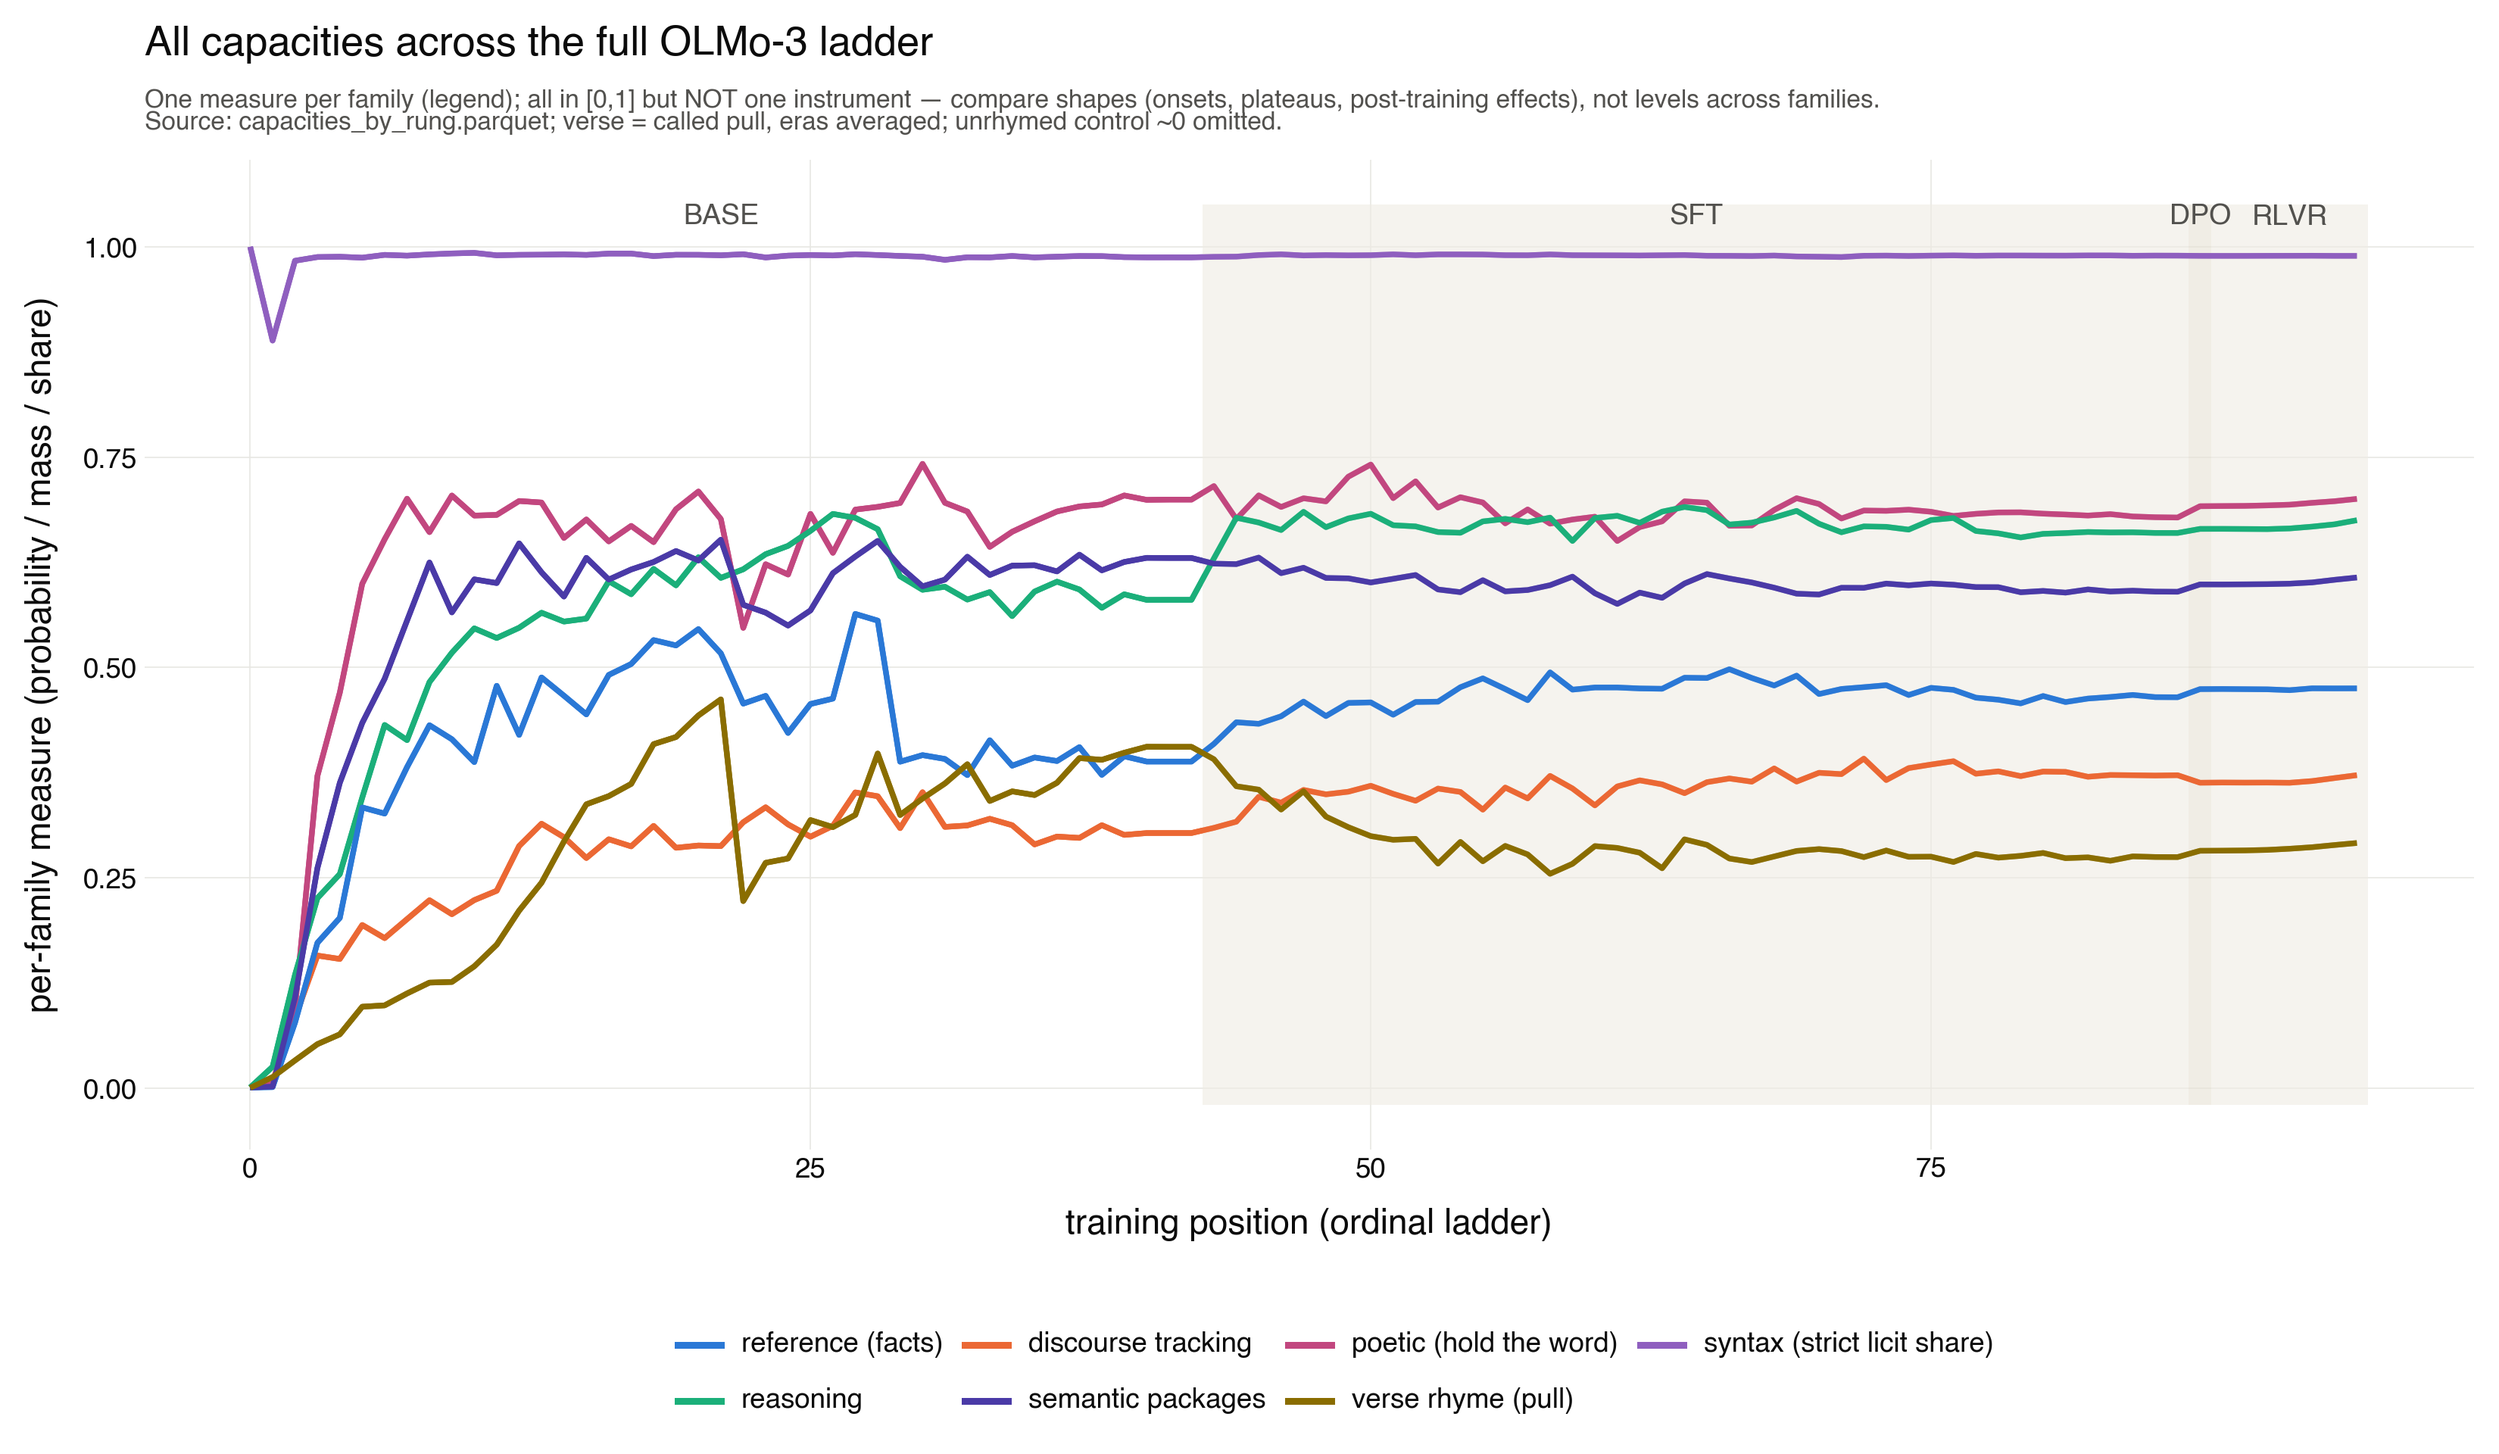
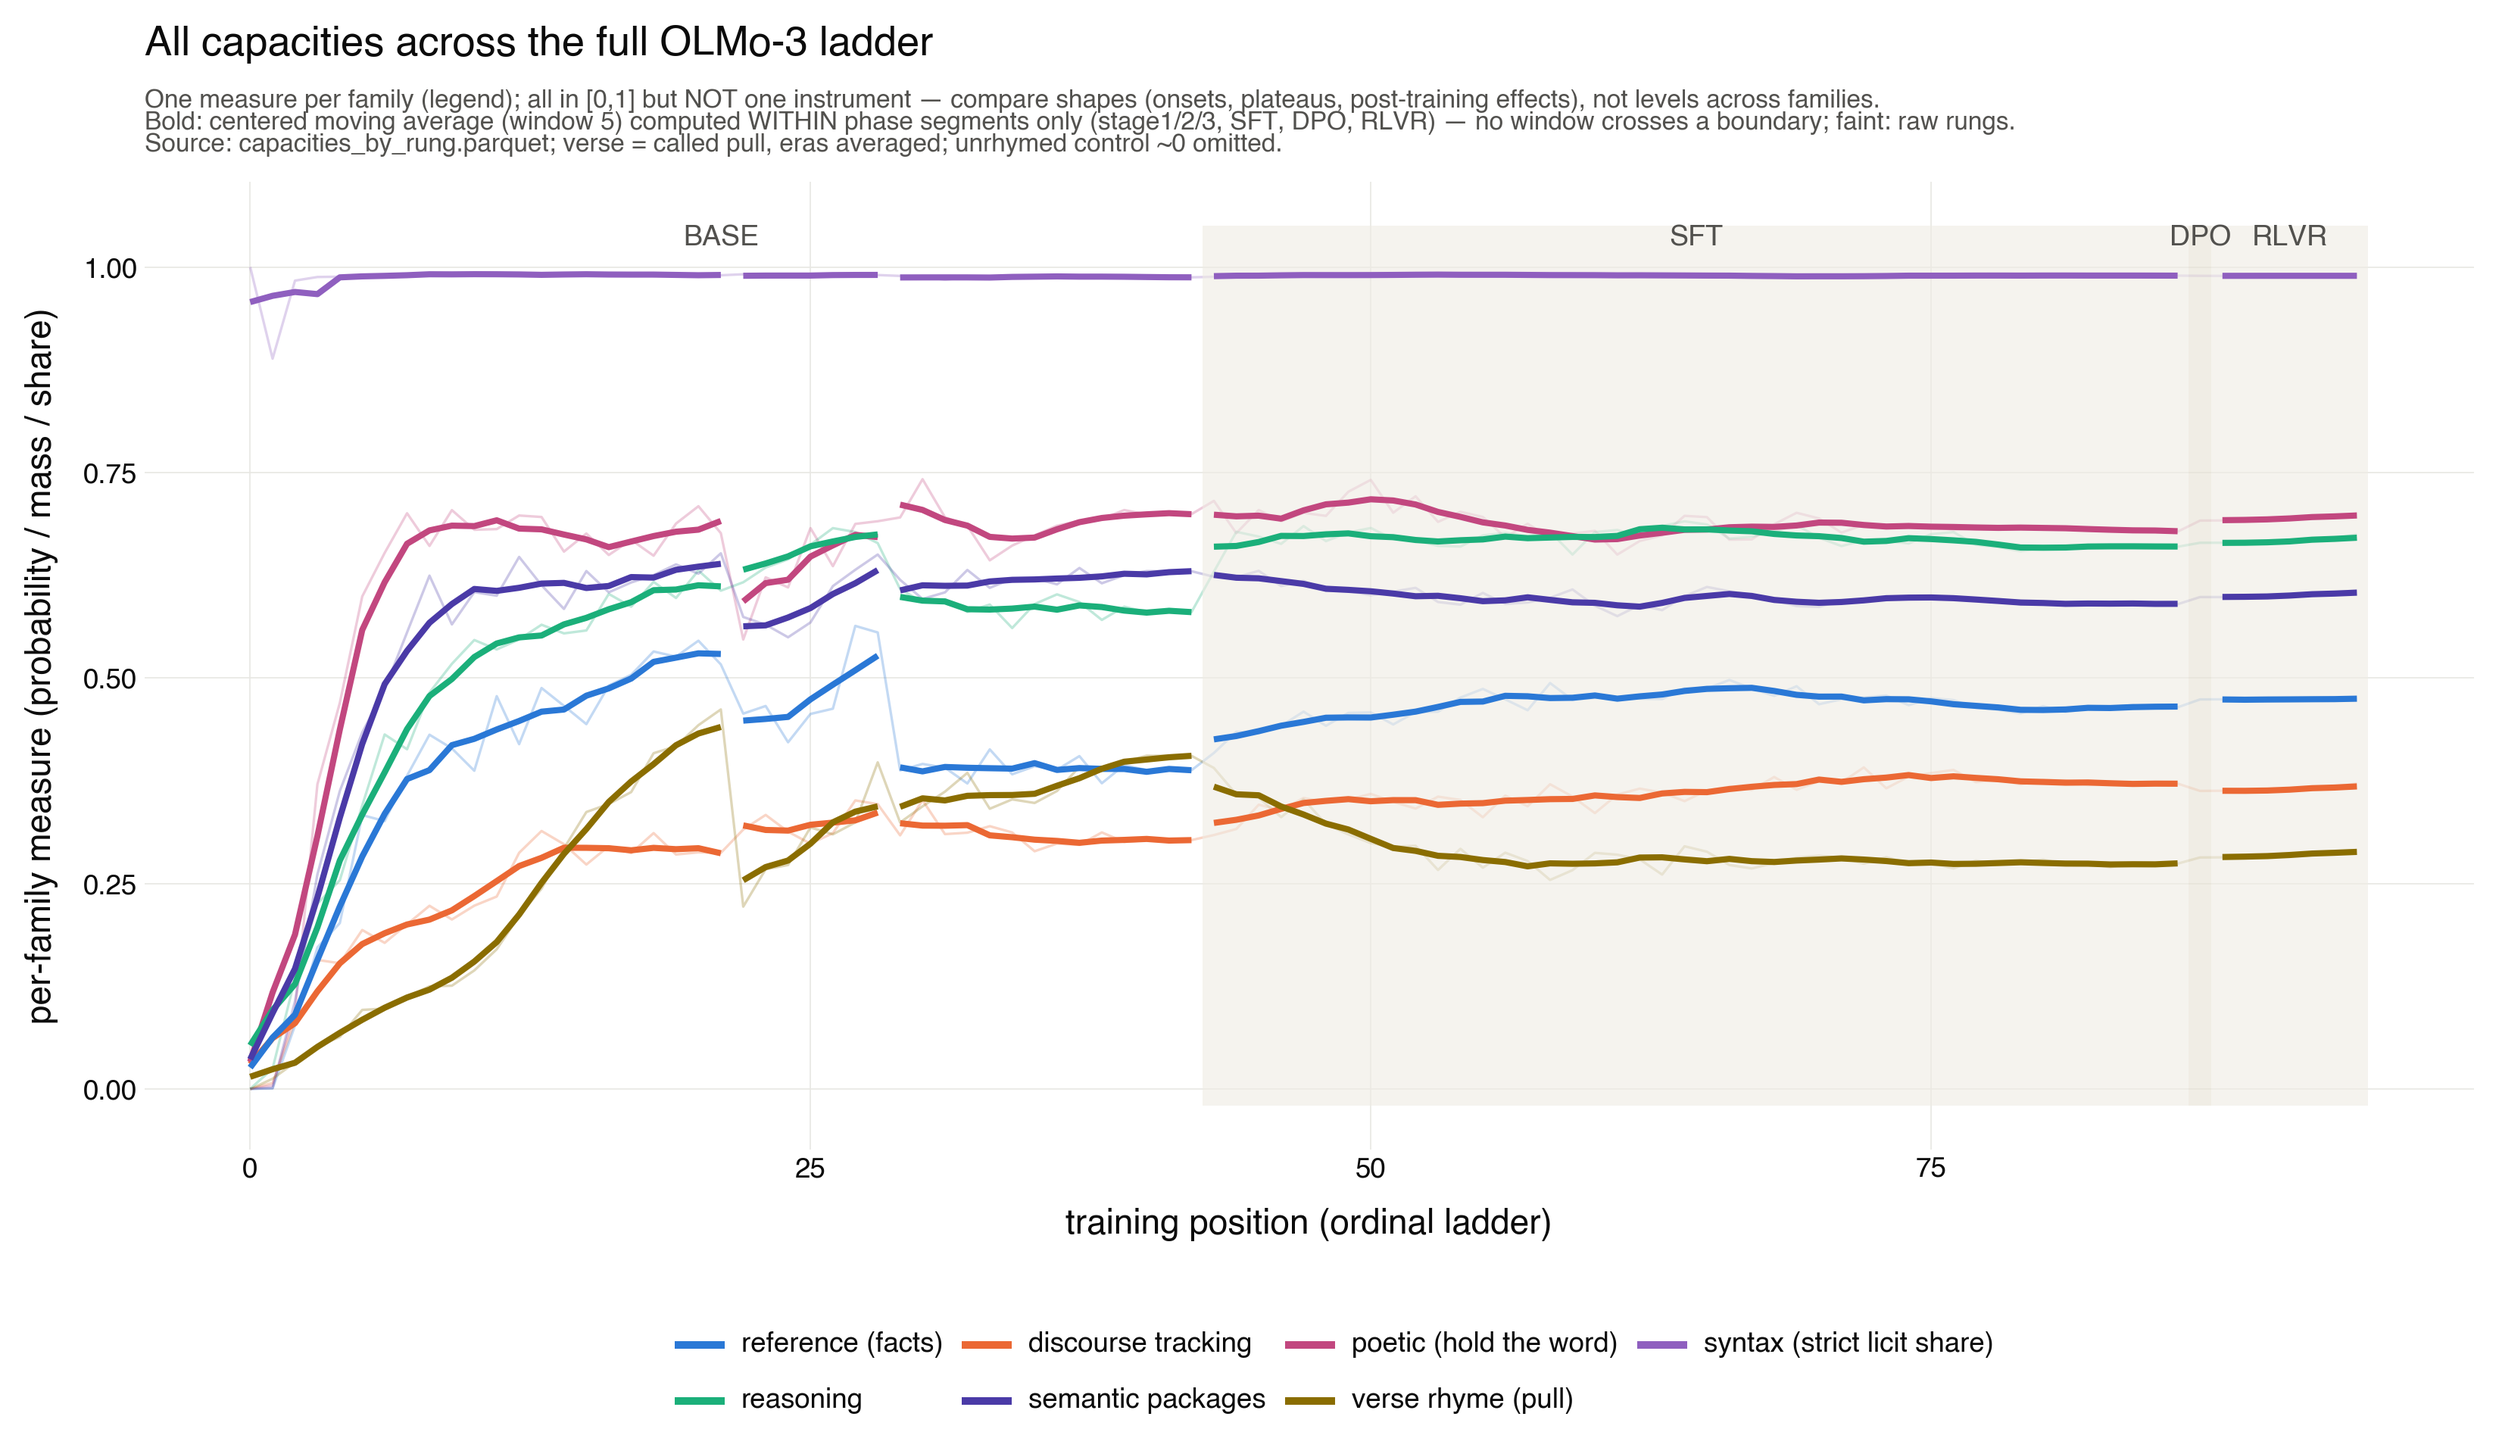
M05: fig26/fig27 segment-aware moving averages (RH's ask)
Bold = centered rolling mean (window 5 OLMo / 9 Pythia) computed WITHIN
phase segments only — stage1/2/3 separately, SFT, DPO, RLVR; no window
crosses a boundary (base_endpoint rides with stage3). Raw rungs kept
faint behind; smoothed lines break visibly at every boundary.

diff --git a/meta/M05_emergence/scripts/m05_capacities_overview.py b/meta/M05_emergence/scripts/m05_capacities_overview.py
@@ -58,22 +58,48 @@ def build(ladder):
     b = d[d.family.isin(LABEL) & (d.measure == "mean_p_target")]
     for r in b.itertuples():
         rows.append(dict(ckpt_idx=r.ckpt_idx, fam=LABEL[r.family],
-                         value=r.value, role=r.role))
+                         value=r.value, role=r.role, stage=r.stage))
     v = d[d.family.isin(["verse_rhymed_pre-1900", "verse_rhymed_1900+"])
           & (d.measure == "called_pull")]
     for ck, g in v.groupby("ckpt_idx"):
         rows.append(dict(ckpt_idx=ck, fam="verse rhyme (pull)",
-                         value=g.value.mean(), role=g.role.iloc[0]))
+                         value=g.value.mean(), role=g.role.iloc[0],
+                         stage=g.stage.iloc[0]))
     s = d[(d.family == "sense") & (d.measure == "natural_share")]
     for r in s.itertuples():
         rows.append(dict(ckpt_idx=r.ckpt_idx, fam="sense (natural share)",
-                         value=r.value, role=r.role))
+                         value=r.value, role=r.role, stage=r.stage))
     x = d[(d.family == "syntax") & (d.measure == "strict_licit_share")]
     for r in x.itertuples():
         rows.append(dict(ckpt_idx=r.ckpt_idx,
                          fam="syntax (strict licit share)",
-                         value=r.value, role=r.role))
+                         value=r.value, role=r.role, stage=r.stage))
     return pd.DataFrame(rows).sort_values("ckpt_idx"), d
+
+
+def segment(role, stage):
+    """Smoothing segment: no window may cross a pretraining-stage or
+    post-training boundary. base_endpoint rides with stage3 (it is the
+    end of that run); each post-training phase is its own segment."""
+    r, s = str(role), str(stage)
+    if r == "base_step":
+        return s
+    if r == "base_endpoint":
+        return "stage3"
+    for ph in ("sft", "dpo", "rlvr"):
+        if r.startswith(ph):
+            return ph
+    return "other"
+
+
+def smooth(long, window):
+    long = long.copy()
+    long["seg"] = [segment(r, s) for r, s in zip(long.role, long.stage)]
+    long["smooth"] = (long.sort_values("ckpt_idx")
+                      .groupby(["fam", "seg"])["value"]
+                      .transform(lambda v: v.rolling(window, center=True,
+                                                     min_periods=1).mean()))
+    return long
 
 
 def sections(d):
@@ -91,13 +117,15 @@ def sections(d):
 
 def draw(ladder, out):
     long, d = build(ladder)
+    long = smooth(long, window=9 if ladder == "pythia" else 5)
     bounds = sections(d)
     from plotnine import (aes, annotate, element_blank, element_line,
                           element_text, geom_line, ggplot, labs,
                           scale_color_manual, theme, theme_minimal, ylim)
     fams = [f for f in COLORS if f in set(long.fam)]
-    p = (ggplot(long, aes("ckpt_idx", "value", color="fam", group="fam"))
-         + geom_line(size=1.0))
+    long["seg_group"] = long.fam + "|" + long.seg
+    p = (ggplot(long, aes("ckpt_idx", color="fam"))
+         + geom_line(aes(y="value", group="fam"), size=0.45, alpha=0.28))
     # data-driven top: a fixed 0.78 cap silently CLIPPED the sense curve
     # (saturates ~0.92) out of fig27's first render — plotnine ylim drops
     # out-of-range points rather than cropping the view.
@@ -108,7 +136,8 @@ def draw(ladder, out):
             lo, hi = bounds[sec]
             p = p + annotate("rect", xmin=lo - 0.5, xmax=hi + 0.5,
                              ymin=-0.02, ymax=top, fill=fill, alpha=0.6)
-    p = (p + geom_line(size=1.0)
+    w = 9 if ladder == "pythia" else 5
+    p = (p + geom_line(aes(y="smooth", group="seg_group"), size=1.1)
          + scale_color_manual([COLORS[f] for f in fams], limits=fams)
          + ylim(-0.02, top)
          + labs(x="training position (ordinal ladder)",
@@ -118,10 +147,13 @@ def draw(ladder, out):
                 subtitle=("One measure per family (legend); all in [0,1] "
                           "but NOT one instrument — compare shapes "
                           "(onsets, plateaus, post-training effects), "
-                          "not levels across families.\nSource: "
-                          "capacities_by_rung.parquet; verse = called "
-                          "pull, eras averaged; unrhymed control ~0 "
-                          "omitted."),
+                          "not levels across families.\nBold: centered "
+                          f"moving average (window {w}) computed WITHIN "
+                          "phase segments only (stage1/2/3, SFT, DPO, "
+                          "RLVR) — no window crosses a boundary; faint: "
+                          "raw rungs.\nSource: capacities_by_rung."
+                          "parquet; verse = called pull, eras averaged; "
+                          "unrhymed control ~0 omitted."),
                 color="")
          + theme_minimal(base_size=11)
          + theme(panel_grid_minor=element_blank(),
